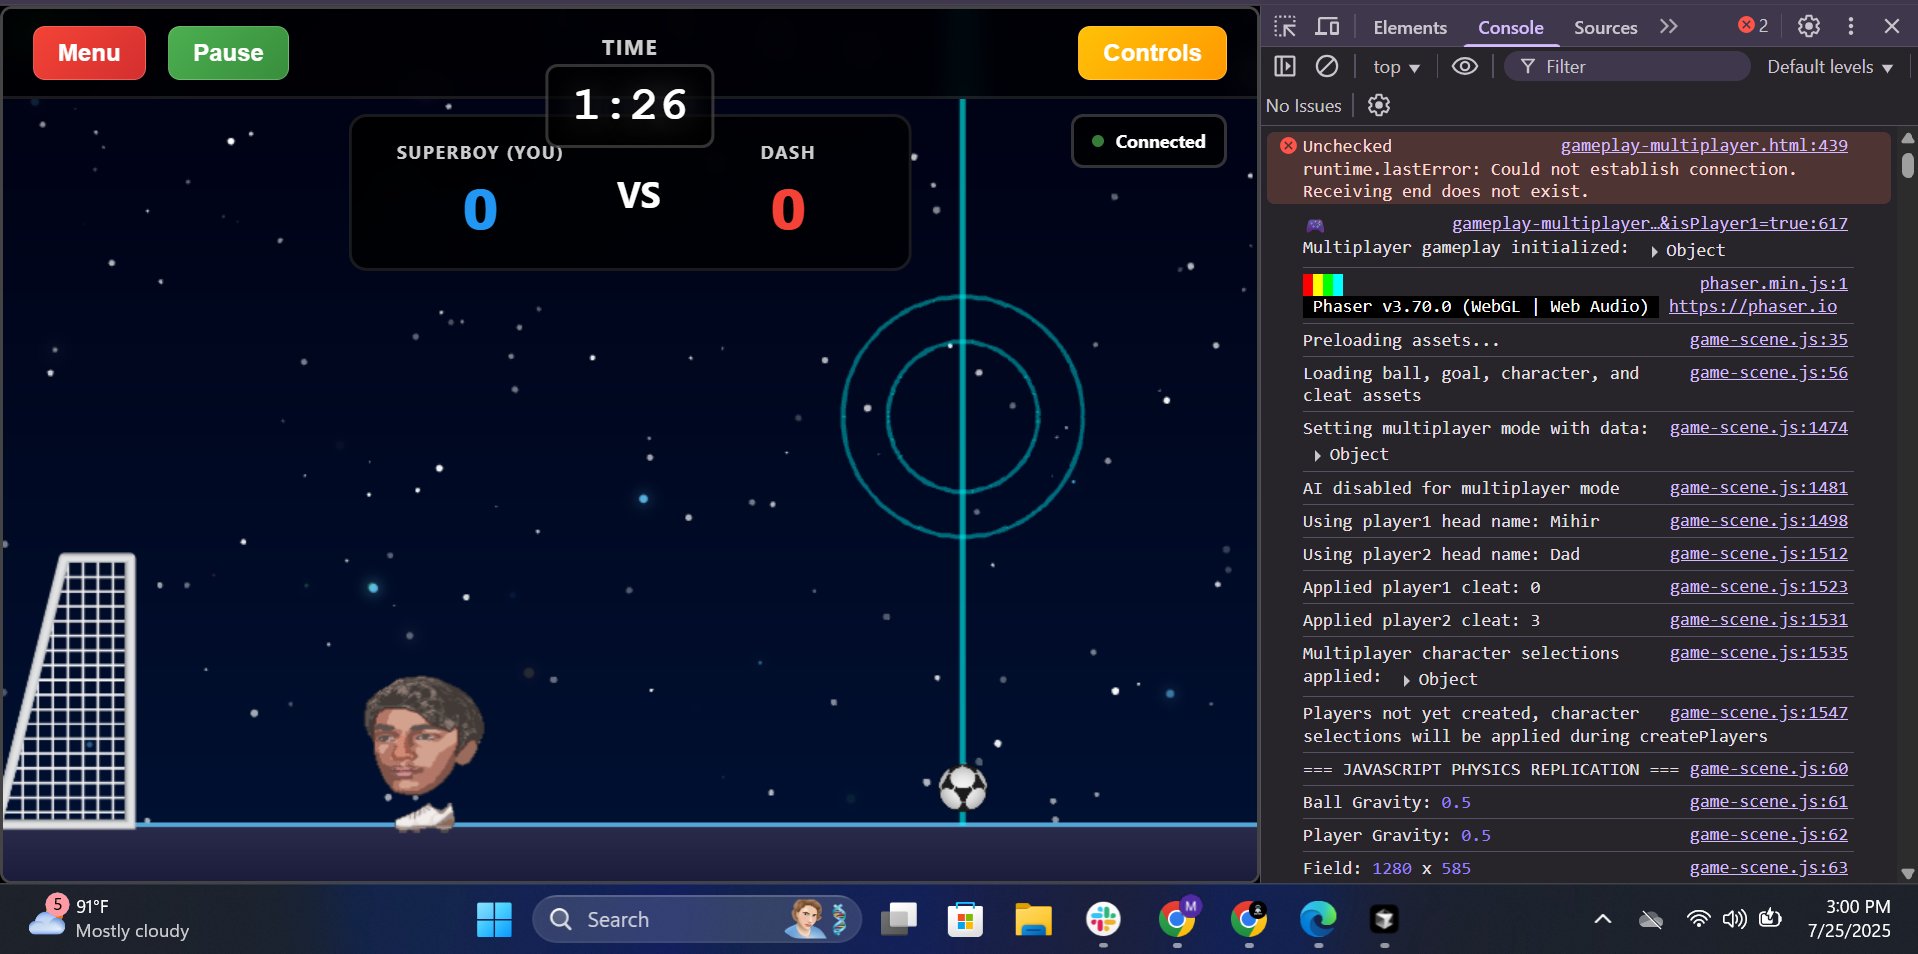
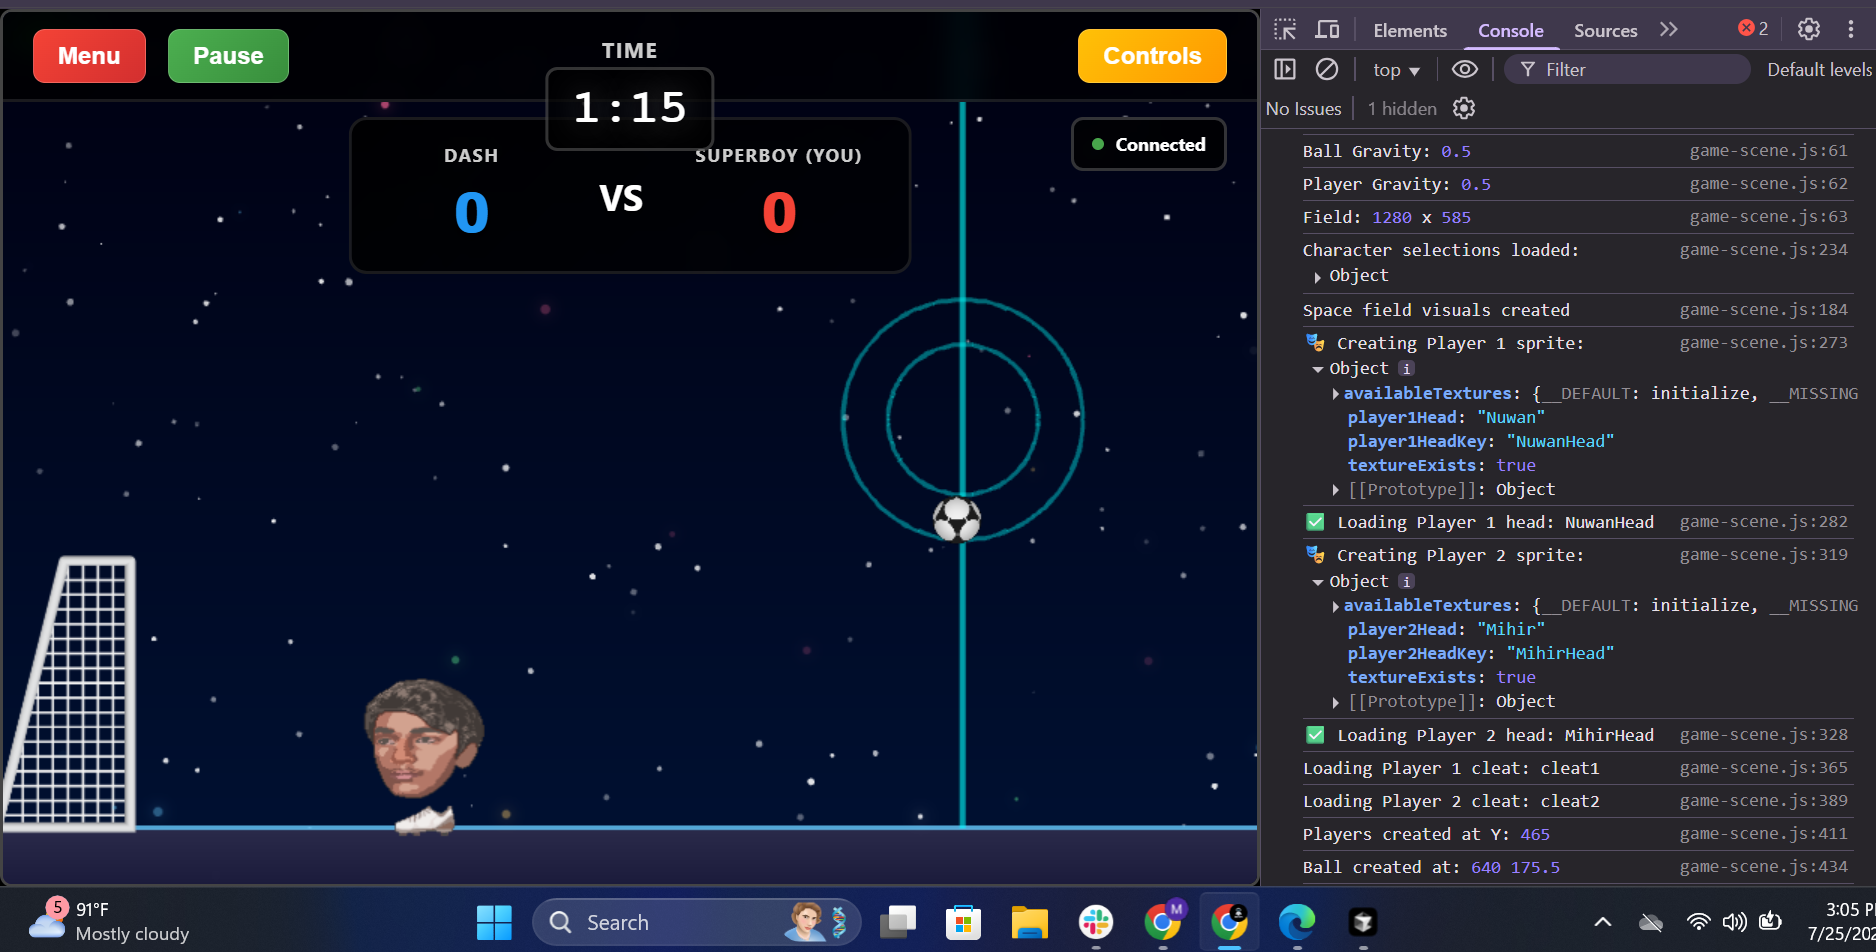
Add comprehensive debugging for setMultiplayerMode execution timing
- Added immediate verification logging after character selections are applied
- Added createPlayers() entry logging to track execution order and values
- Will show if setMultiplayerMode properly sets character heads before createPlayers
- Will identify if there's a timing issue or if selections are being overridden

🤖 Generated with [Claude Code](https://claude.ai/code)

Changed region(s): [[0.0, 0.0, 1.0, 1.0], [0.1855, 0.2742, 0.4638, 0.3046], [0.2473, 0.2132, 0.2783, 0.2437]]

diff --git a/head-soccer-js/js/game-scene.js b/head-soccer-js/js/game-scene.js
@@ -238,6 +238,13 @@ class GameScene extends Phaser.Scene {
     }
     
     createPlayers() {
+        console.log('🏗 createPlayers() called with character heads:', {
+            player1Head: this.player1Head,
+            player2Head: this.player2Head,
+            isMultiplayer: this.isMultiplayer,
+            multiplayerGameExists: !!this.multiplayerGame
+        });
+        
         const groundY = this.gameHeight - this.bottomGap;
         const playerStartX = this.gameWidth * 0.2; // Adjusted for fullscreen
         const playerY = groundY - PHYSICS_CONSTANTS.PLAYER.HEIGHT;
@@ -1532,11 +1539,19 @@ class GameScene extends Phaser.Scene {
             }
         }
 
-        console.log('Multiplayer character selections applied:', {
+        console.log('✅ Multiplayer character selections applied:', {
             player1Head: this.player1Head,
             player2Head: this.player2Head,
             player1Cleat: this.player1Cleat,
             player2Cleat: this.player2Cleat
+        });
+        
+        // IMMEDIATE verification - check if properties were actually set
+        console.log('🔍 Immediate verification after setMultiplayerMode:', {
+            'this.player1Head': this.player1Head,
+            'this.player2Head': this.player2Head,
+            'createPlayers already called': !!(this.player1 && this.player2),
+            'sprites already created': !!(this.player1Sprite && this.player2Sprite)
         });
         
         // Always recreate sprites to apply the new character selections
